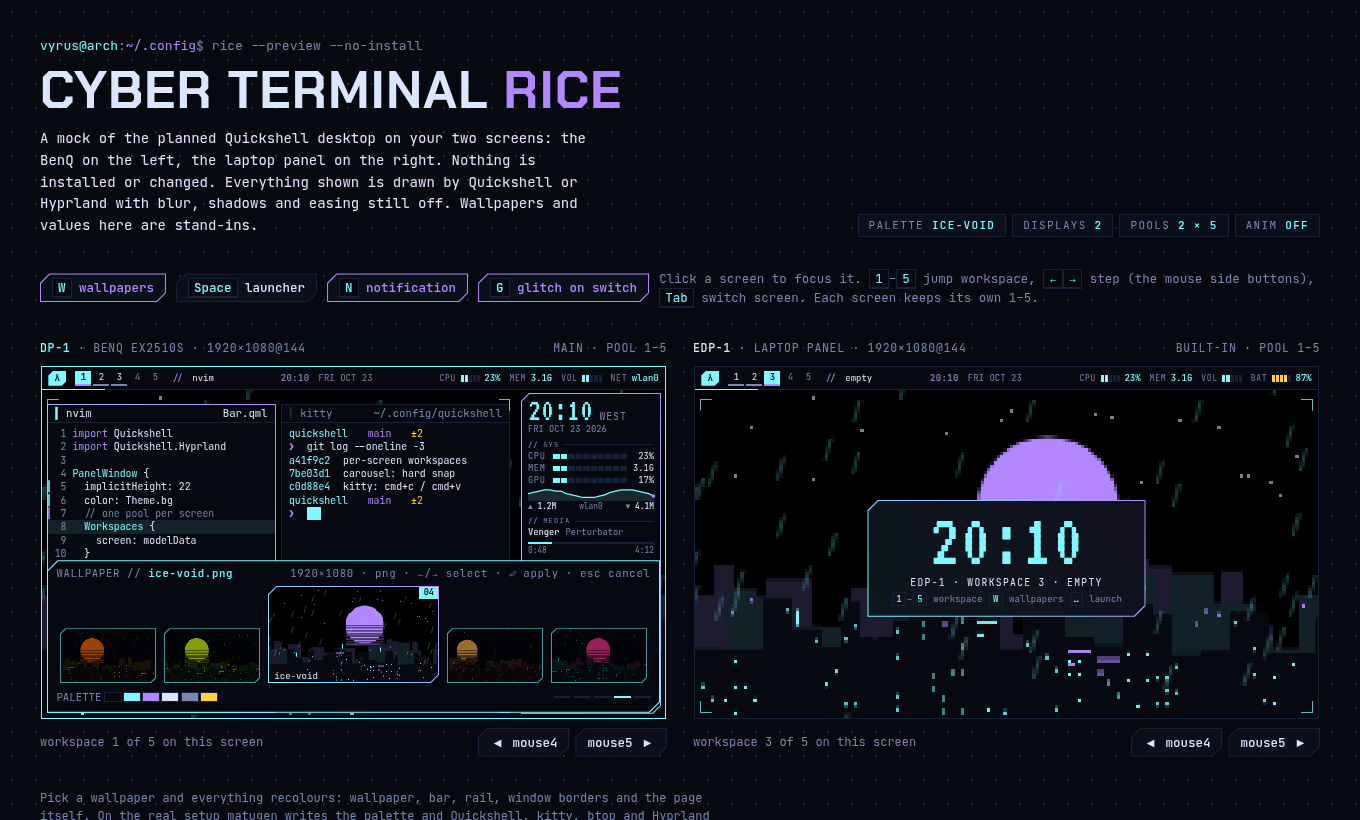
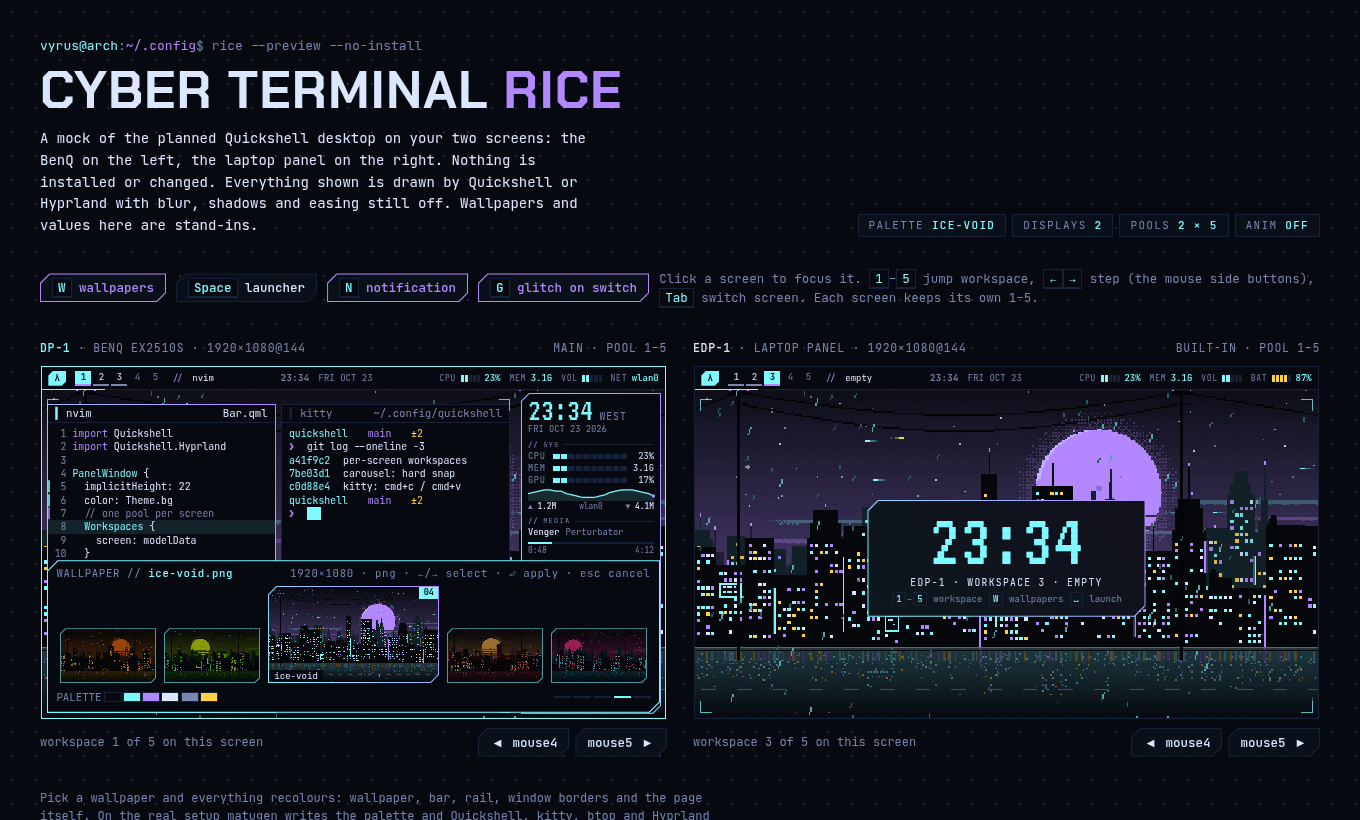
docs(design): higher-res, more detailed pixel-art wallpaper in the render
The stand-in wallpaper is now 384x216 (was 192x108) with ordered-dither
sky, cratered moon with halo, clouds, hills, four layers of buildings with
tiers/antennas/neon strips/billboards, a wet road with reflections, power
lines, flying cars and two layers of rain. Still palette-only, still 8-bit.

diff --git a/docs/superpowers/design/cyber-terminal-rice.html b/docs/superpowers/design/cyber-terminal-rice.html
@@ -444,26 +444,76 @@ const hex=h=>[1,3,5].map(i=>parseInt(h.slice(i,i+2),16));
 const mix=(a,b,t)=>{const x=hex(a),y=hex(b);return 'rgb('+x.map((v,i)=>Math.round(v+(y[i]-v)*t)).join(',')+')'};
 function rng(s){return()=>{s|=0;s=s+0x6D2B79F5|0;let t=Math.imul(s^s>>>15,1|s);t=t+Math.imul(t^t>>>7,61|t)^t;return((t^t>>>14)>>>0)/4294967296}}
 function paint(cv,p,seed){
-  const w=192,h=108;cv.width=w;cv.height=h;const g=cv.getContext('2d'),r=rng(seed);
-  /* dithered sky: bands with checkerboard strips between them */
-  const B=12,col=b=>{const t=b/(B-1);return t<.7?mix(p.bg,mix(p.bg,p.a2,.34),t/.7):mix(mix(p.bg,p.a2,.34),mix(p.bg,p.a1,.26),(t-.7)/.3)};
-  for(let b=0;b<B;b++){const y0=Math.floor(b*h/B),y1=Math.floor((b+1)*h/B);g.fillStyle=col(b);g.fillRect(0,y0,w,y1-y0);
-    if(b<B-1){g.fillStyle=col(b+1);for(let y=y1-2;y<y1;y++)for(let x=(y&1);x<w;x+=2)g.fillRect(x,y,1,1)}}
-  g.fillStyle=p.fg;g.globalAlpha=.55;for(let i=0;i<22;i++)g.fillRect(Math.floor(r()*w),Math.floor(r()*h*.4),1,1);g.globalAlpha=1;
-  const mx=w*(.2+r()*.55),my=h*.4,mr=h*(.17+r()*.07);
-  g.fillStyle=p.a2;g.beginPath();g.arc(mx,my,mr,0,7);g.fill();
-  g.fillStyle=mix(p.bg,p.a2,.34);for(let y=my;y<my+mr;y+=3)g.fillRect(mx-mr,y,mr*2,1+(y-my)/mr*1.3);
-  [[p.a2,.14],[p.a1,.1],[p.bg,0]].forEach(([c,m],L)=>{
-    let x=-2;const fill=L<2?mix(p.bg,c,m):p.bg;
-    while(x<w){const bw=5+Math.floor(r()*10),bh=h*(.16+r()*.3)*(1-L*.18)+L*4;
-      g.fillStyle=fill;g.fillRect(x,h-bh,bw,bh);
-      if(L==1&&r()<.18){g.fillStyle=p.a1;g.fillRect(x+1,h-bh-5,1,5)}
-      if(L>0){g.fillStyle=L==1?p.a2:p.a1;for(let wy=h-bh+3;wy<h-2;wy+=4)for(let wx=x+1;wx<x+bw-1;wx+=3)if(r()<.16)g.fillRect(wx,wy,1,1)}
-      if(L==2&&r()<.22&&bw>7){g.fillStyle=r()<.5?p.a1:p.a2;g.fillRect(x+1,h-bh+4,bw-2,1);g.fillRect(x+1,h-bh+8,2,1)}
-      x+=bw}
-  });
-  g.globalAlpha=.26;g.strokeStyle=p.a1;for(let i=0;i<46;i++){const x=r()*w,y=r()*h;g.beginPath();g.moveTo(x,y);g.lineTo(x-2,y+7);g.stroke()}
-  g.globalAlpha=1;
+  /* 384x216 pixel art, ordered-dither sky, layered city, wet road. Everything is built from the 8 palette tokens. */
+  const w=384,h=216,hz=Math.floor(h*.8);
+  cv.width=w;cv.height=h;const g=cv.getContext('2d'),r=rng(seed);
+  const T={};['bg','a1','a2','fg','warn'].forEach(k=>T[k]=hex(p[k]));
+  const K=[0,0,0],lp=(a,b,t)=>a.map((v,i)=>v+(b[i]-v)*t),cs=a=>'rgb('+a.map(v=>Math.round(v)).join(',')+')';
+  const px=(x,y,c,wd=1,ht=1)=>{g.fillStyle=cs(c);g.fillRect(Math.round(x),Math.round(y),wd,ht)};
+  const BAY=[0,8,2,10,12,4,14,6,3,11,1,9,15,7,13,5],bay=(x,y)=>(BAY[(y&3)*4+(x&3)]+.5)/16;
+  const s1=lp(T.bg,T.a2,.34),s3=lp(T.bg,T.a1,.26);
+  const sky=t=>{t=Math.max(0,Math.min(1,t));return t<.7?lp(T.bg,s1,t/.7):lp(s1,s3,(t-.7)/.3)};
+  /* sky: 18-level ordered dither */
+  const img=g.createImageData(w,h),LV=18;
+  for(let y=0;y<h;y++){const t=Math.min(1,y/hz);for(let x=0;x<w;x++){const lvl=Math.min(LV,Math.floor(t*LV+bay(x,y)));const c=sky(lvl/LV),i=(y*w+x)*4;img.data[i]=c[0];img.data[i+1]=c[1];img.data[i+2]=c[2];img.data[i+3]=255}}
+  g.putImageData(img,0,0);
+  /* stars */
+  for(let i=0;i<80;i++){const x=Math.floor(r()*w),y=Math.floor(r()*hz*.5),b=r(),c=lp(sky(y/hz),b<.08?T.a1:T.fg,.35+r()*.5);
+    px(x,y,c);if(b>.93){px(x-1,y,c);px(x+1,y,c);px(x,y-1,c);px(x,y+1,c)}}
+  /* moon: dithered halo, disc, banding cuts, craters, rim light */
+  const mx=Math.floor(w*(.2+r()*.55)),my=Math.floor(h*.36),R=Math.floor(h*(.15+r()*.05));
+  for(let dy=-R-12;dy<=R+12;dy++)for(let dx=-R-12;dx<=R+12;dx++){const d=Math.hypot(dx,dy);if(d>R&&d<R+12){const f=1-(d-R)/12;if(f*.5>bay(mx+dx,my+dy))px(mx+dx,my+dy,lp(sky((my+dy)/hz),T.a2,.28))}}
+  for(let dy=-R;dy<=R;dy++){const hw=Math.floor(Math.sqrt(R*R-dy*dy));px(mx-hw,my+dy,T.a2,2*hw+1,1)}
+  for(let dy=Math.floor(R*.1);dy<=R;dy++){const cut=Math.floor((dy-R*.1)/R*5);if(dy%7<cut){const hw=Math.floor(Math.sqrt(R*R-dy*dy));px(mx-hw,my+dy,sky((my+dy)/hz),2*hw+1,1)}}
+  for(let i=0;i<7;i++){const a=r()*Math.PI*2,rr=r()*R*.7,cx=mx+Math.cos(a)*rr,cy=my-R*.1+Math.sin(a)*rr*.8;if(cy<my+R*.1){const s=1+Math.floor(r()*3);px(cx,cy,lp(T.a2,T.bg,.22),s,s)}}
+  for(let dy=-R;dy<=-R*.2;dy++){const hw=Math.floor(Math.sqrt(R*R-dy*dy));px(mx-hw,my+dy,lp(T.a2,T.fg,.4),2,1)}
+  /* cloud streaks with dithered ends */
+  for(let i=0;i<7;i++){const y=Math.floor(hz*(.42+r()*.4)),x0=Math.floor(r()*w*.9),len=50+Math.floor(r()*110),c=lp(sky(y/hz),i%2?T.a1:T.a2,.22+r()*.12);
+    for(let k=0;k<len;k++){const edge=Math.min(k,len-k)/14,th=2+(r()<.3?1:0);for(let j=0;j<th;j++){if(edge>1||edge>bay(x0+k,y+j))px(x0+k,y+j,c)}}}
+  /* flying cars */
+  for(let i=0;i<7;i++){const y=Math.floor(h*(.2+r()*.3)),x=Math.floor(r()*w),dir=r()<.5?-1:1,c=r()<.5?T.a1:T.warn;
+    px(x,y,c,3,1);px(x-dir*3,y,lp(sky(y/hz),c,.4),3,1);px(x-dir*6,y,lp(sky(y/hz),c,.18),2,1)}
+  /* far hills */
+  const ph=[r()*6,r()*6,r()*6],mtn=lp(sky(.8),T.a2,.14);
+  for(let x=0;x<w;x++){const y=Math.round(hz-34-16*Math.sin(x/41+ph[0])-9*Math.sin(x/17+ph[1])-4*Math.sin(x/7+ph[2]));px(x,y,mtn,1,hz-y)}
+  /* city: four layers, far to near */
+  const lights=[];
+  const layers=[
+    {fill:lp(sky(.9),T.bg,.35),hmin:.14,hmax:.30,bw:[8,18],win:0,neon:0},
+    {fill:lp(T.bg,T.a2,.16),hmin:.18,hmax:.40,bw:[7,16],win:.2,neon:.15},
+    {fill:lp(T.bg,T.a1,.10),hmin:.20,hmax:.50,bw:[8,20],win:.28,neon:.25},
+    {fill:lp(T.bg,K,.25),hmin:.16,hmax:.46,bw:[10,26],win:.32,neon:.3}];
+  layers.forEach((Ly,li)=>{let x=-4;while(x<w){
+    const bw=Ly.bw[0]+Math.floor(r()*(Ly.bw[1]-Ly.bw[0]));let bh=Math.floor(hz*(Ly.hmin+r()*(Ly.hmax-Ly.hmin)));if(r()<.12)bh=Math.floor(bh*1.35);
+    const top=hz-bh;px(x,top,Ly.fill,bw,bh+2);
+    let ty=top,tw=bw;if(r()<.4&&bw>9){for(let t=0;t<1+(r()<.4?1:0);t++){tw-=4;const th=5+Math.floor(r()*9);px(x+(bw-tw)/2,ty-th,Ly.fill,tw,th);ty-=th}}
+    if(r()<.25){const ah=8+Math.floor(r()*16),ax=x+Math.floor(bw/2);px(ax,ty-ah,Ly.fill,1,ah);if(li>0)px(ax,ty-ah-1,T.a2,1,2)}
+    if(r()<.12&&bw>8){px(x+2,ty-4,Ly.fill,5,4);px(x+3,ty-6,Ly.fill,3,2)}
+    if(Ly.win){for(let wy=top+4;wy<hz-3;wy+=4){const rowOn=r()<.55;for(let wx=x+2;wx<x+bw-2;wx+=3){
+      if((rowOn&&r()<Ly.win*1.6)||r()<Ly.win*.25){const q=r(),c=q<.4?T.a1:q<.65?T.a2:q<.85?T.fg:T.warn;px(wx,wy,li==3?c:lp(Ly.fill,c,.85),2,2);lights.push([wx,wy,c,li])}}}}
+    if(Ly.neon&&r()<Ly.neon){const nc=r()<.5?T.a1:T.a2,nl=14+Math.floor(r()*Math.max(1,Math.min(40,bh-8))),nx=r()<.5?x:x+bw-1,ny=top+4+Math.floor(r()*Math.max(1,bh-nl-8));
+      px(nx,ny,nc,1,nl);px(nx+(nx==x?-1:1),ny,lp(Ly.fill,nc,.3),1,nl);for(let k=0;k<nl;k+=3)lights.push([nx,ny+k,nc,li])}
+    if(li>=2&&bw>=13&&r()<.16){const sw=bw-4,sh=8+Math.floor(r()*5),sy=top+6+Math.floor(r()*Math.max(1,bh-sh-14)),sc=r()<.5?T.a1:T.a2,sx=x+2;
+      px(sx,sy,sc,sw,sh);px(sx+1,sy+1,lp(T.bg,K,.4),sw-2,sh-2);
+      for(let rr=0;rr<Math.floor((sh-2)/3);rr++){let cx=sx+2;while(cx<sx+sw-3){const dl=1+Math.floor(r()*3);if(r()<.75)px(cx,sy+2+rr*3,r()<.6?sc:T.fg,dl,1);cx+=dl+1}}
+      for(let k=0;k<sw;k+=2)lights.push([sx+k,sy+sh,sc,li])}
+    x+=bw}});
+  /* wet road with reflections */
+  const RH=h-hz;
+  for(let y=hz;y<h;y++){const t=(y-hz)/RH;for(let x=0;x<w;x++){const lvl=Math.floor((1-t)*8+bay(x,y))/8;px(x,y,lp(T.bg,lp(T.bg,T.a1,.2),lvl))}}
+  px(0,hz,lp(T.bg,T.a1,.45),w,1);px(0,hz+2,lp(T.bg,K,.4),w,1);
+  lights.forEach(([x,y,c,li])=>{if(li<2)return;const ry=hz+Math.round((hz-y)*.28)+2;if(ry<h-1&&(ry+x)%2==0)px(x+((ry>>1)&1),ry,lp(T.bg,c,.45))});
+  lights.filter(l=>l[3]>=2).forEach((l,i)=>{if(i%7==0)px(l[0],hz+3,lp(T.bg,l[2],.3),1,6+((l[0]*7)%7))});
+  for(let x=0;x<w;x+=22)px(x+4,hz+Math.round(RH*.6),lp(T.bg,T.fg,.3),9,1);
+  for(let i=0;i<25;i++)px(Math.floor(r()*w),hz+3+Math.floor(r()*(RH-4)),lp(T.bg,T.fg,.35));
+  /* poles and power lines */
+  const pole=lp(T.bg,K,.55),wy=Math.floor(h*.07),x0=Math.floor(w*.07),x1=Math.floor(w*.78);
+  [x0,x1].forEach(x=>{px(x,wy-2,pole,2,hz-wy+10);px(x-5,wy,pole,12,2);px(x-4,wy+7,pole,10,1);px(x-5,wy-1,T.a2,1,1);px(x+6,wy-1,T.a2,1,1)});
+  [0,7].forEach((o,i)=>{for(let x=x0;x<=x1;x++){const t=(x-x0)/(x1-x0);px(x,wy+o+Math.round(Math.sin(Math.PI*t)*(14+i*3)),pole)}});
+  for(let x=0;x<x0;x++)px(x,wy+10-Math.round(x/x0*10),pole);
+  for(let x=x1;x<w;x++)px(x,wy+Math.round((x-x1)/(w-x1)*14),pole);
+  /* rain: far then near */
+  [[90,3,lp(T.bg,T.a1,.35)],[45,5,lp(T.bg,T.a1,.65)]].forEach(([n,len,c])=>{for(let i=0;i<n;i++){const x=r()*w,y=r()*h;for(let k=0;k<len;k++)px(x-k/3,y+k,c)}});
 }
 const cur=()=>car?ci:pi;
 
